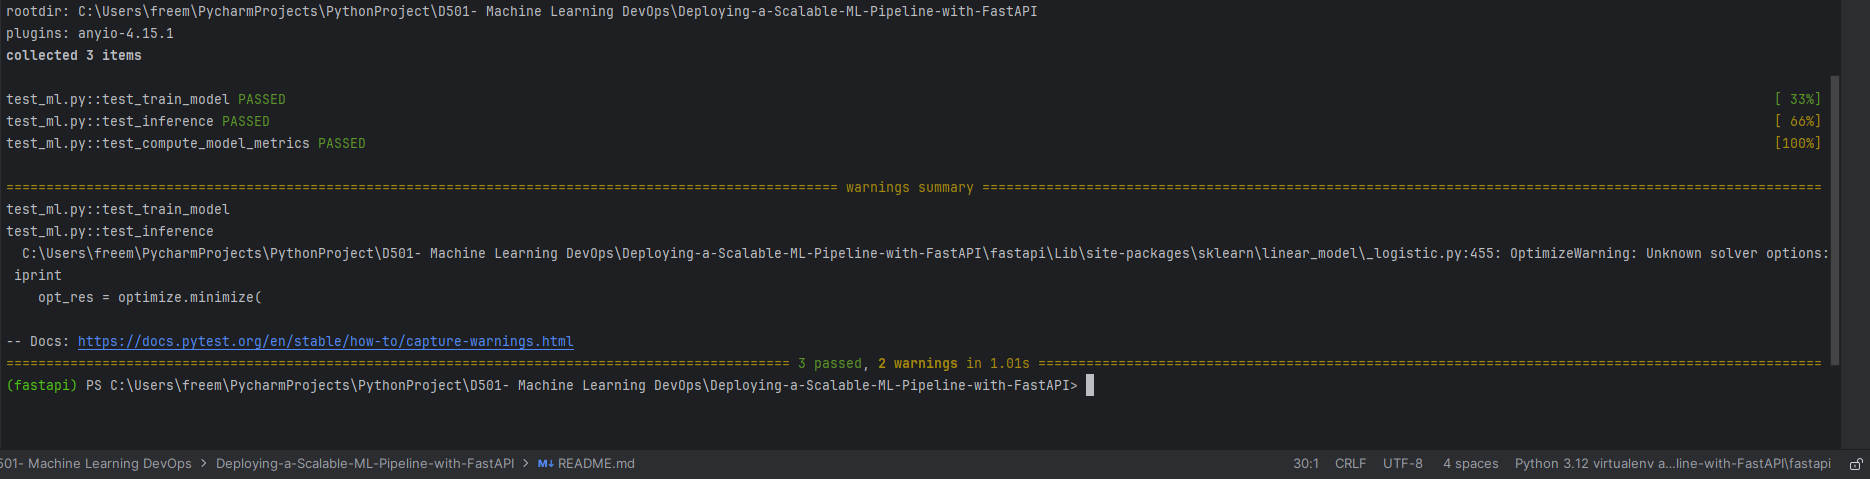
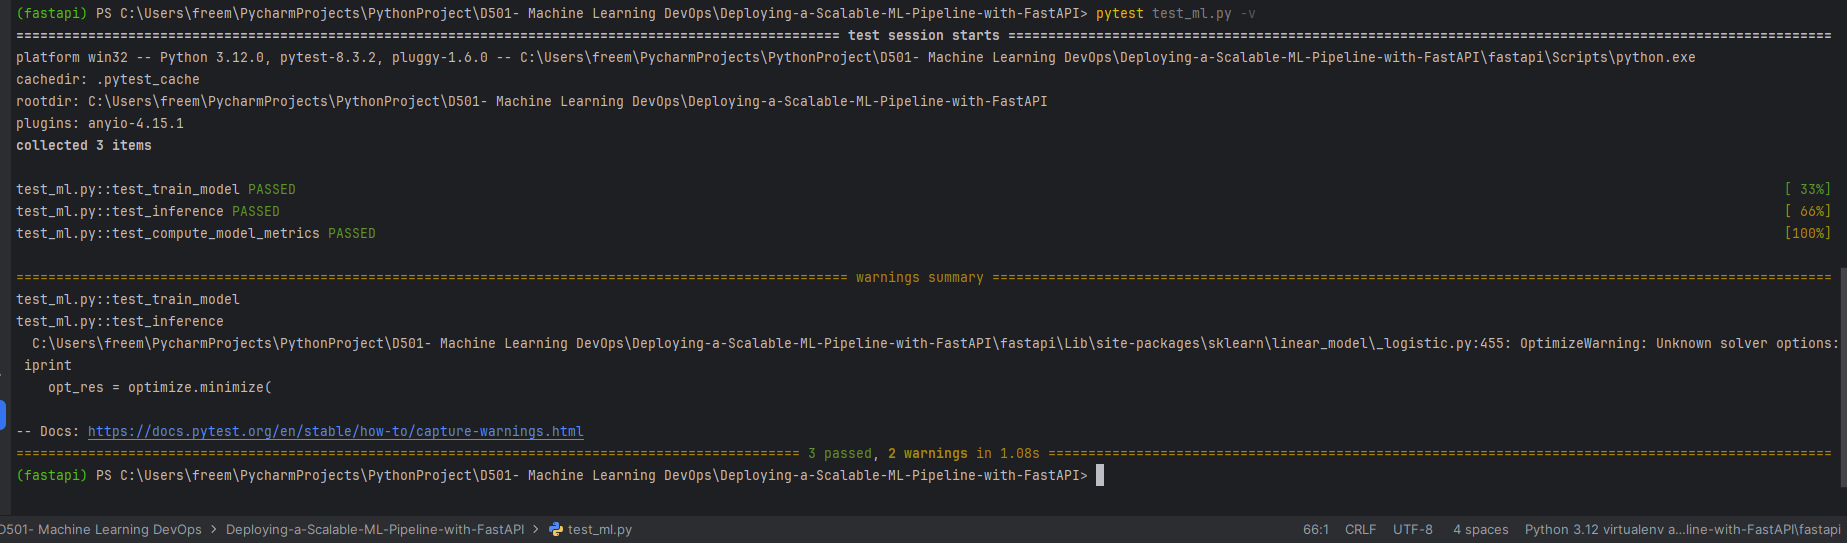
Update metrics unit test to assert numerical correctness

Changed region(s): [[0.0, 0.0, 1.0, 0.9061], [0.0, 0.9353, 0.3395, 0.9937], [0.6789, 0.9353, 1.0, 0.9937]]

diff --git a/test_ml.py b/test_ml.py
@@ -41,14 +41,26 @@ def test_inference(dummy_data):
 
 def test_compute_model_metrics():
     """
-    # Verifies compute_model_metrics correctly calculates and returns three floats.
+    Test the compute_model_metrics function to ensure numerical correctness.
+    Using dummy data: True Positives=1, False Positives=0, False Negatives=1
     """
-    y_true = np.array([0, 1, 1, 0])
-    y_pred = np.array([0, 1, 0, 0])
+    y_true = [0, 1, 1, 0]
+    preds = [0, 1, 0, 0]
 
-    precision, recall, fbeta = compute_model_metrics(y_true, y_pred)
+    # Expected metrics for these specific arrays:
+    # Precision = 1 / (1 + 0) = 1.0
+    # Recall = 1 / (1 + 1) = 0.5
+    # F1 = 2 * (1.0 * 0.5) / (1.0 + 0.5) = 0.666...
 
-    # Check that all three metrics are returned as floats
+    precision, recall, f1 = compute_model_metrics(y_true, preds)
+
+    # Asserting return types (your original checks)
     assert isinstance(precision, float)
     assert isinstance(recall, float)
-    assert isinstance(fbeta, float)
+    assert isinstance(f1, float)
+
+    # Asserting numerical correctness (the evaluator's requested fix)
+    assert precision == 1.0
+    assert recall == 0.5
+    assert round(f1, 2) == 0.67
+
